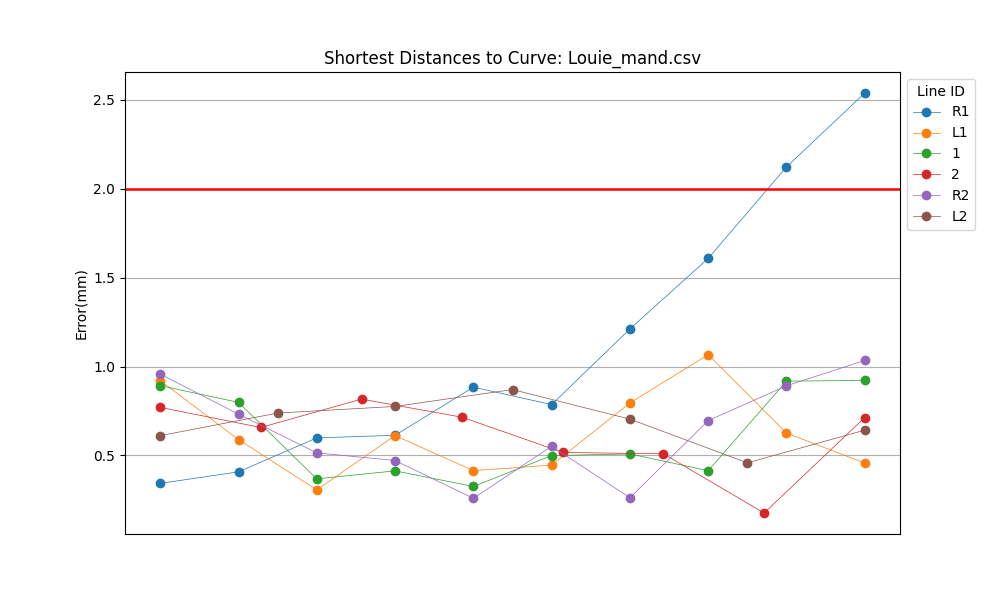
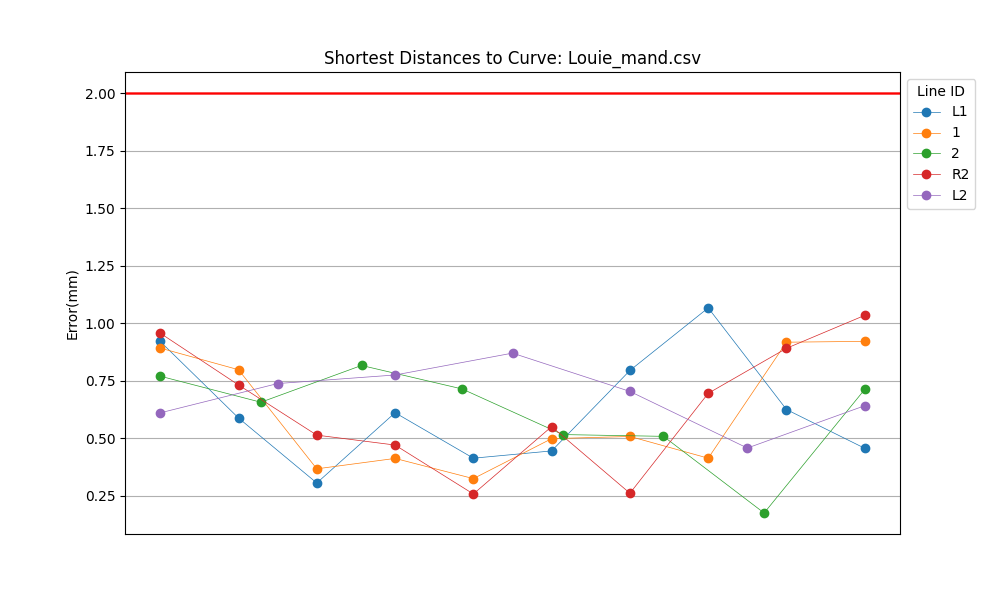
刪除Louie_mand.csv 的R1, 並計算誤差

diff --git a/min_line_dis.py b/min_line_dis.py
@@ -4,12 +4,12 @@ import numpy as np
 import matplotlib.pyplot as plt
 from pathlib import Path
 
-files = ['Louie_mand.csv', 'Louie_max.csv', 'Lo_mand.csv', 'Lo_max.csv']
+files = ['Louie_mand.csv', 'Louie_max.csv']
+# files = ['Lo_mand.csv', 'Lo_max.csv']
 
-def find_min_dis(file_path):
-    df = pd.read_csv(file_path)
+def find_min_dis(data_frame):
     data = {}
-    for _, row in df.iterrows():
+    for _, row in data_frame.iterrows():
         point = row['Point']  # e.g., 'LO L1-6'
         parts = point.split()
         if len(parts) != 2:
@@ -31,20 +31,20 @@ def find_min_dis(file_path):
         data[line_id][is_stl][idx] = coords    
     
     
+    lines_error = []
     for line_id in data:
         if (len(data[line_id][0]) != len(data[line_id][1])):
             print(f'Error: {line_id}')
             continue
-        # for i in [0, 1]:
-        #     print(f'data[{line_id}][{i}]: {data[line_id][i]}')
         
         min_dis = compute_distances(data[line_id][0], data[line_id][1])
-        
+        lines_error.extend([x for x in min_dis if x is not None])
         print(f"{line_id}: {min_dis}")
         min_dis = [x for x in min_dis if x is not None]
         x_values = np.linspace(0, 1, len(min_dis))
         plt.plot(x_values, min_dis, marker='o', label=line_id, linewidth=0.5)
         plt.axhline(y=2.0, color='red', linewidth=1)
+    print(f"Mean: {np.mean(lines_error)}, Std: {np.std(lines_error)}")
         
 
 
@@ -92,9 +92,15 @@ def remove_outliers(dists):
     return [dist if lower_bound <= dist <= upper_bound else None for dist in dists]
 
 for f in files:
+    extracted_csv_path = './raw/extracted' / Path(f)
+    print(f'Read {extracted_csv_path}')
+    df = pd.read_csv(extracted_csv_path)
+
+    if f == 'Louie_mand.csv':
+        df = df[~df['Point'].str.contains('LO R1-|CT R1-')]  # 刪除Louie_mand.csv 的LO R1-X, CT R1-X
+
     plt.figure(figsize=(10, 6))
-    print(f'Processing {f}...')
-    find_min_dis('./raw/extracted' / Path(f))
+    find_min_dis(df)
 
     # 添加標題和標籤
     plt.title(f"Shortest Distances to Curve: {f}")
